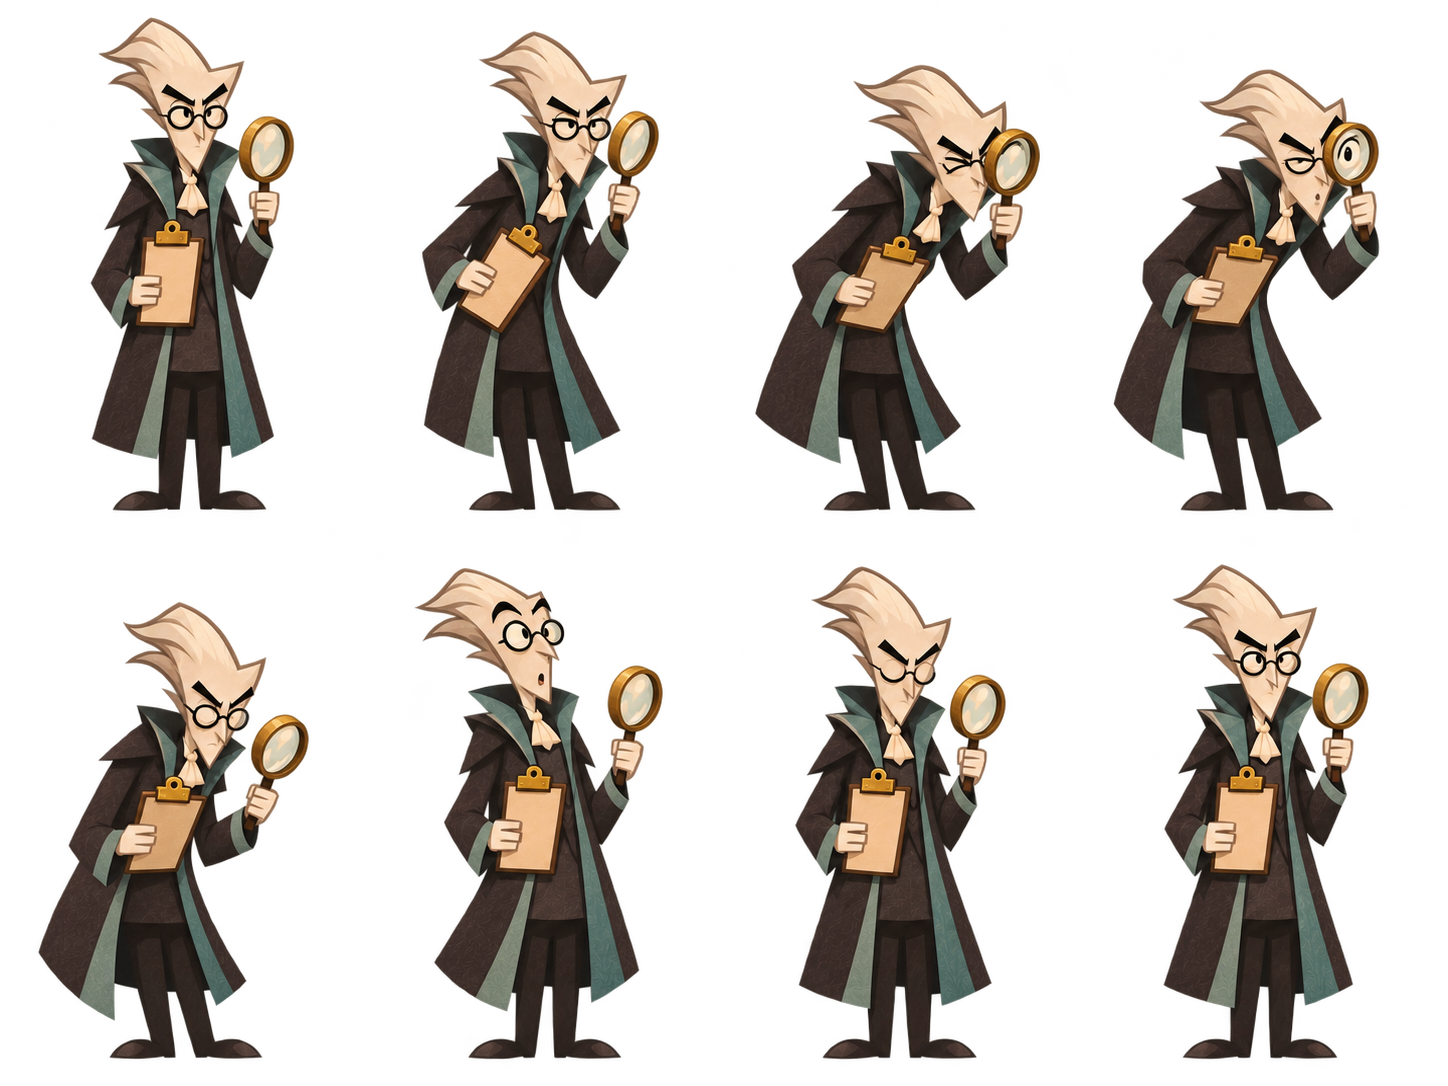
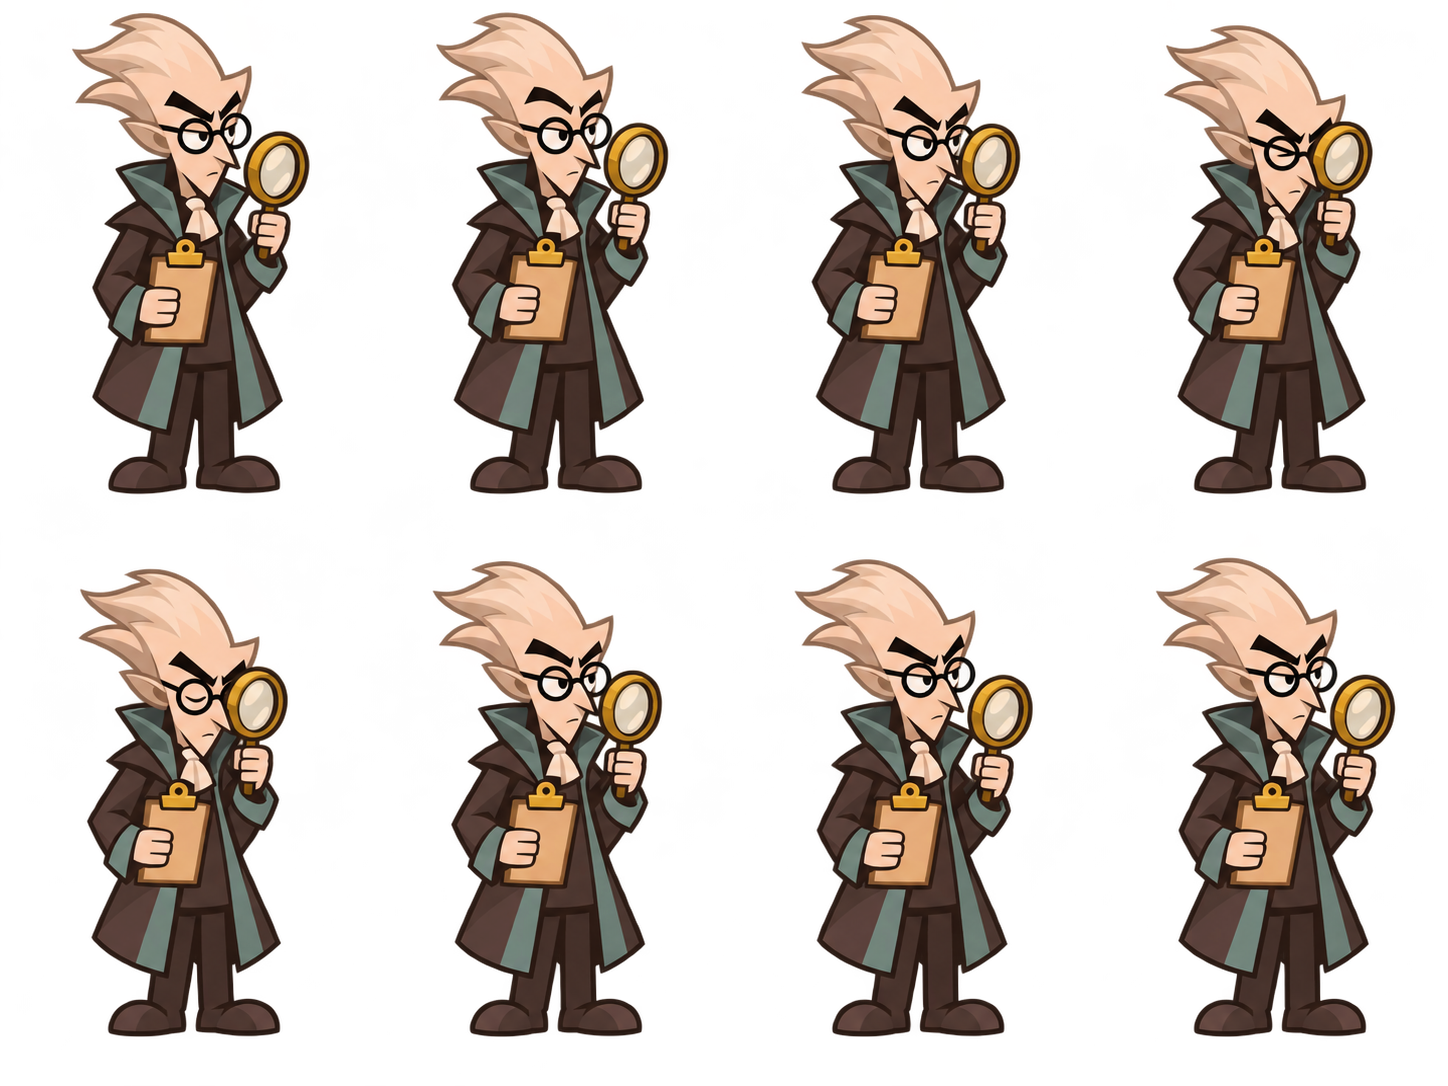
art: replace checker idle with approved light-hair-outline redesign

diff --git a/docs/progress.md b/docs/progress.md
@@ -1233,3 +1233,10 @@
 - 用户选择前面单独生成的五张Alpha透明底PNG，并明确忽略后来的横向画风确认图；授权推送个人分支、合入main。资产路径assets/final/monster_dialogue_portraits_v1，分别为nose/eye/hat/ear/checker_halfbody.png，保留原始文件字节，不重新绘制或转码。
 - 五张均为1024×1536 RGBA，Alpha范围0—254，含真实全透明像素；逐张SHA256与生成时validation.json一致。art_sources/monster_dialogue_portraits_v1保留内置imagegen原始提示词和Alpha校验报告，素材README说明透明混合和隐藏RGB。
 - 本次仅发布五张独立素材及必要说明、提示词／校验，不包含横向合图、不替换运行时对白或怪物动画。fetch后main仍cc52b6d，选择性暂存及git diff --check；不为纯素材新增玩法测试或声称游戏对白已接入。
+
+### 2026-11-22 C：新版核验怪站姿动画替换与发布
+
+- 用户确认浅暖棕头发描边的新版核验怪及8帧待机图，并授权替换游戏、推送GitHub和合入main。基于main@569b5d0建立独立动画发布分支，避免把尚待A验证的PR65复核提交一起合并。
+- 无损替换assets/final/monster_idle/checker_idle_sheet.png，1448×1086／4×2／单格362×543，Alpha0—255；SHA256 19fff3637b7c010ae3266ed037bbe97546831b03e2a7885c72f5ef978e00d98e。其他四怪PNG逐一核对与manifest原hash一致。源母版、浅发边修改提示词、动画原始提示词与8帧边界保留在art_sources/monster_idle/checker_v2。
+- 共用动画适配器只调整CHECKER脚底锚点512→494及8帧时长400/150/170/230/160/180/180/350ms。保持完整格切片、原有角色缩放、开门显示/关门隐藏/模态冻结，不修改门判定、任务、UI或移动。
+- 实际Compatibility图形夹具在真实floor2/5门205/501检查8帧区域、脚底锚点、开关门显示、暂停与恢复，退出0并查看4张开关门截图；显式全任务已完成的美术夹具，不代记完整主线通关。tutorial_lifecycle、known_monster_rules、floor_5_layout、checker_safe_bag四项回归PASS；导入退出0，无脚本解析错误，git diff --check通过。截图和临时检查脚本位于本次会话outputs/checker_v2_in_game及work，未纳入运行时资源。

diff --git a/art_sources/monster_idle/checker_v2/README.md b/art_sources/monster_idle/checker_v2/README.md
@@ -1,0 +1,10 @@
+# Approved checker idle redesign (2026-11-22)
+
+- `approved_model.png`: approved standing model with lighter warm-brown hair outline.
+- `hair_outline_edit_prompt.json`: built-in image_gen local edit instructions for the model.
+- `frames.json`: original built-in image_gen animation prompt, frame regions, durations, alpha checks and original sheet SHA256.
+- Runtime sheet: `assets/final/monster_idle/checker_idle_sheet.png` (1448x1086, 4x2 equal362x543 cells). Original PNG bytes copied without re-encoding.
+- Runtime foot anchor494 aligns visible local shoe bottoms493/494. Preserve full cells and existing actor scale. The one-pixel frame-edge variation is retained; frames are not individually trimmed or rescaled.
+- Inspection loop durations400/150/170/230/160/180/180/350ms. Restores the approved starting pose; pause/modal freezes and open/closed visibility use the existing adapter.
+
+This change does not include the pending C audit PR65 or change door, task, input, movement or dialogue behavior.
